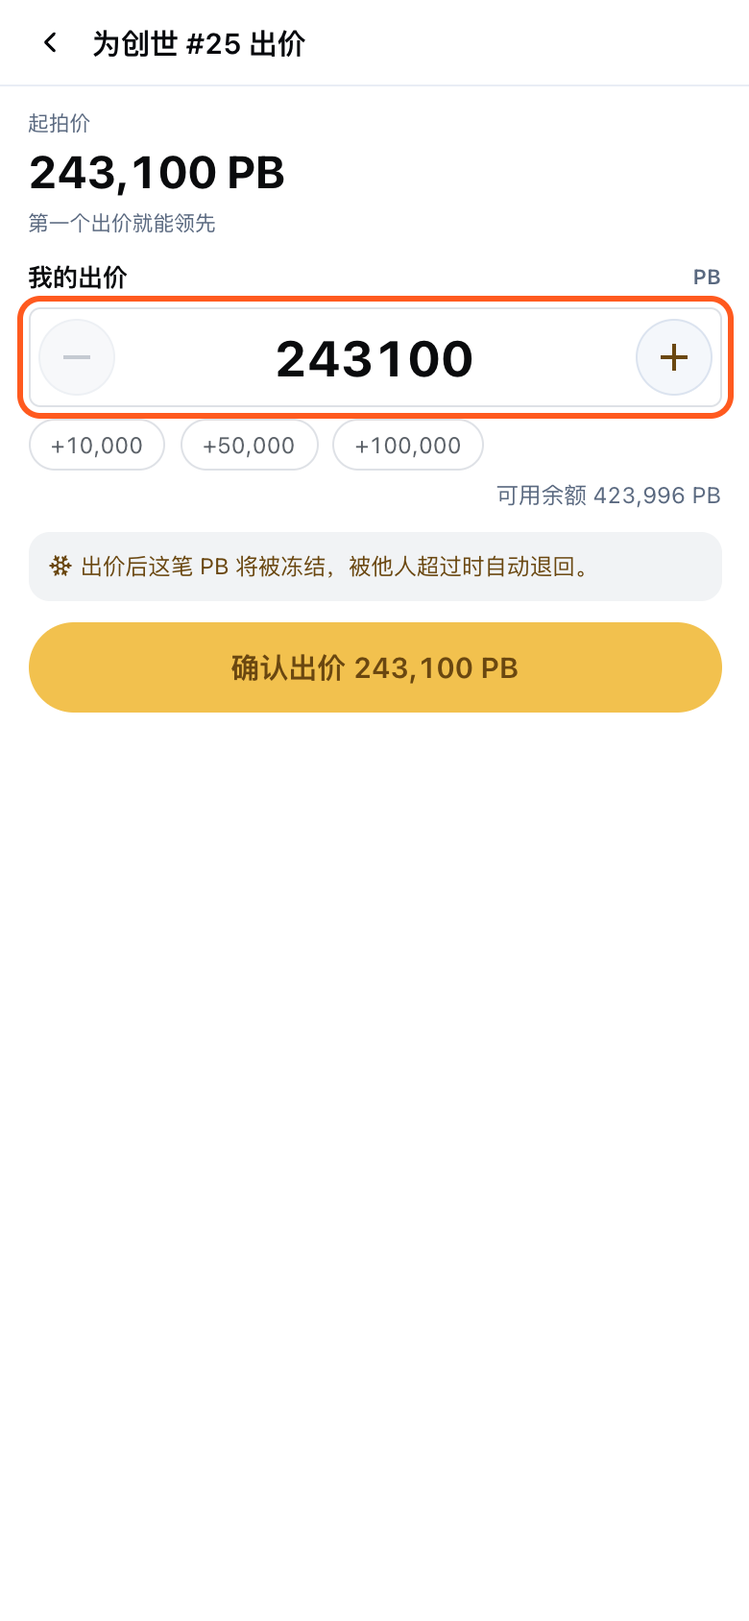
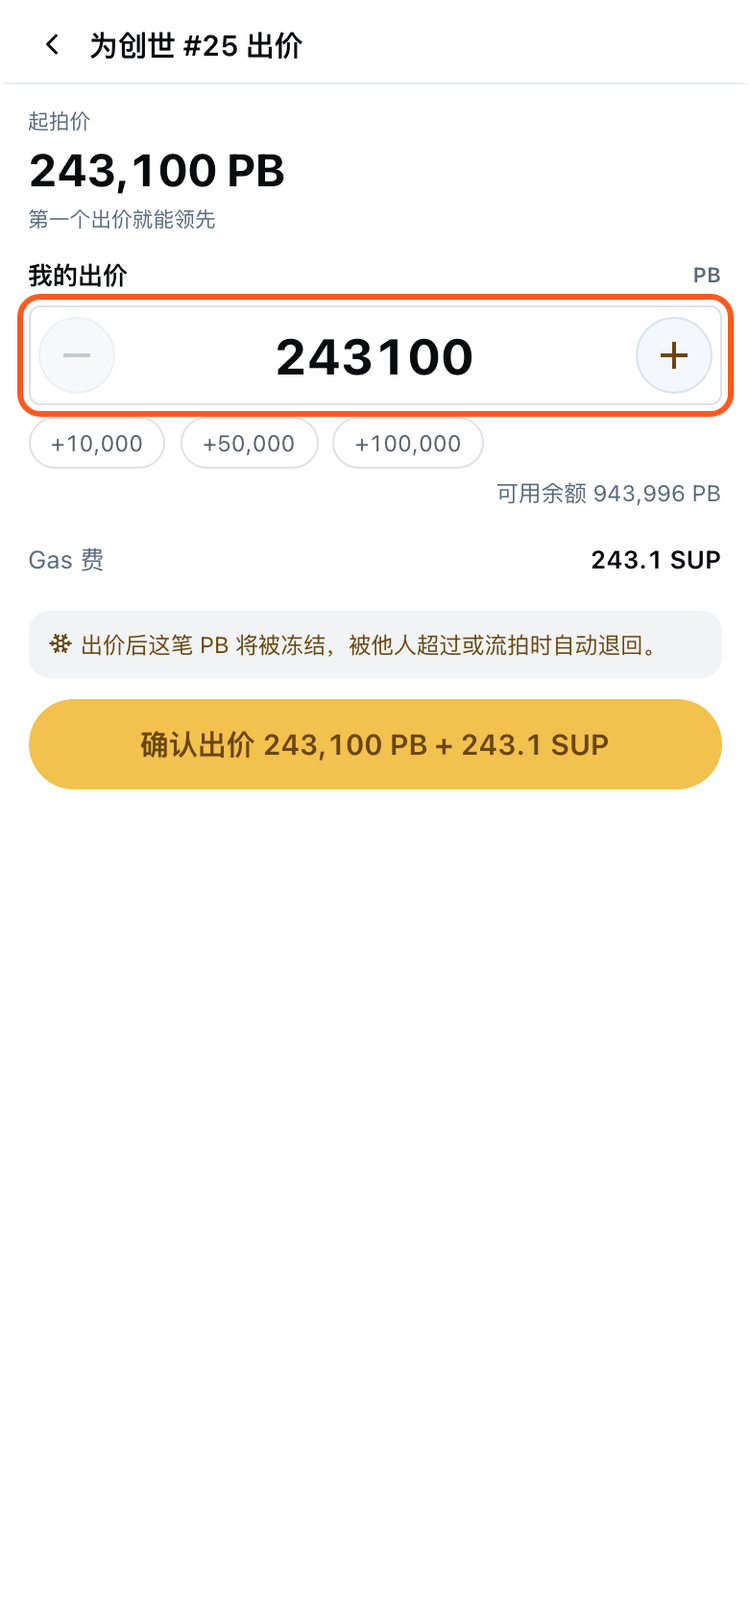
竞拍交付页同步到 MR !56：出价 Gas 费与出价确认弹窗
- 出价页说明补充 SUP Gas 费、SUP 不足提示与收费基数
- 新增出价确认弹窗一屏，出价成功截图改为经弹窗确认
- 模拟数据返回 supFeeRate，截图前把页面余额调到够用
- 去掉「开发环境只有即将开拍数据」的过时说明

diff --git a/output/handoff/genesis-node-auction/index.html b/output/handoff/genesis-node-auction/index.html
@@ -100,13 +100,13 @@
   <header class="top">
     <p class="eyebrow">知识宇宙 · 功能交付</p>
     <h1>创世节点竞拍</h1>
-    <p class="intro">每月排名末 50 名的创世节点在次月公开竞拍，出价最高者获得节点。本页只展示各页面和各阶段的样子；接口字段、状态取值和规则见接口契约。开发环境目前只有即将开拍的测试数据，为了展示各阶段，截图时模拟了接口返回，页面代码与联调时相同。</p>
-    <dl class="meta"><div><dt>代码位置</dt><dd>wujie_mono · apps/web3/genesis_node</dd></div><div><dt>分支</dt><dd>feat/genesis-node-auction（MR !53，提交 660f31eb）</dd></div><div><dt>日期</dt><dd>2026-09-25</dd></div><div><dt>接口契约</dt><dd>https://claude.ai/artifact/Cs6dsAJY8HjmTL6hZoLeuq（字段、状态、竞拍时间、结算与刷新规则以此为准）</dd></div><div><dt>涉及页面</dt><dd>知识宇宙页 · 竞拍列表 · 竞拍详情 · 出价页 · 规则弹窗</dd></div></dl>
+    <p class="intro">每月排名末 50 名的创世节点在次月公开竞拍，出价最高者获得节点。本页只展示各页面和各阶段的样子；接口字段、状态取值和规则见接口契约。为了展示各阶段，截图时模拟了接口返回，页面代码与联调时相同。</p>
+    <dl class="meta"><div><dt>代码位置</dt><dd>wujie_mono · apps/web3/genesis_node</dd></div><div><dt>分支</dt><dd>fix/genesis-auction-web-header（MR !56，提交 4bdfab7d；竞拍主体已随 MR !53 合入 develop）</dd></div><div><dt>日期</dt><dd>2026-09-28</dd></div><div><dt>接口契约</dt><dd>https://claude.ai/artifact/Cs6dsAJY8HjmTL6hZoLeuq（字段、状态、竞拍时间、结算与刷新规则以此为准）</dd></div><div><dt>涉及页面</dt><dd>知识宇宙页 · 竞拍列表 · 竞拍详情 · 出价页 · 出价确认弹窗 · 规则弹窗</dd></div></dl>
   </header>
 
   <nav class="overview" aria-label="屏幕目录">
     <h2>逐屏说明</h2>
-    <ol class="toc"><li><a href="#entry">知识宇宙页的竞拍入口</a></li><li><a href="#list">竞拍列表</a></li><li><a href="#bid-sheet">出价页</a></li><li><a href="#bid-done">出价成功后的列表</a></li><li><a href="#detail">竞拍详情</a></li><li><a href="#previous-list">上期结果列表</a></li><li><a href="#settled">上期结果详情</a></li><li><a href="#settling">期次刚结束：结果统计中</a></li><li><a href="#rules">竞拍规则说明</a></li><li><a href="#load-failed">加载失败</a></li><li><a href="#none">还没有任何一期：入口卡隐藏</a></li><li><a href="#first-upcoming-entry">第一期开拍前：入口卡</a></li><li><a href="#first-upcoming-list">第一期开拍前：竞拍列表</a></li><li><a href="#between-entry">两期之间：入口卡</a></li><li><a href="#between-list">两期之间：竞拍列表</a></li><li><a href="#next-upcoming-list">下期名单已公布、尚未开拍：竞拍列表</a></li></ol>
+    <ol class="toc"><li><a href="#entry">知识宇宙页的竞拍入口</a></li><li><a href="#list">竞拍列表</a></li><li><a href="#bid-sheet">出价页</a></li><li><a href="#bid-confirm">出价确认弹窗</a></li><li><a href="#bid-done">出价成功后的列表</a></li><li><a href="#detail">竞拍详情</a></li><li><a href="#previous-list">上期结果列表</a></li><li><a href="#settled">上期结果详情</a></li><li><a href="#settling">期次刚结束：结果统计中</a></li><li><a href="#rules">竞拍规则说明</a></li><li><a href="#load-failed">加载失败</a></li><li><a href="#none">还没有任何一期：入口卡隐藏</a></li><li><a href="#first-upcoming-entry">第一期开拍前：入口卡</a></li><li><a href="#first-upcoming-list">第一期开拍前：竞拍列表</a></li><li><a href="#between-entry">两期之间：入口卡</a></li><li><a href="#between-list">两期之间：竞拍列表</a></li><li><a href="#next-upcoming-list">下期名单已公布、尚未开拍：竞拍列表</a></li></ol>
   </nav>
 
   <section class="screens">
@@ -126,7 +126,7 @@
         <p class="screen-index">屏 2</p>
         <h3>竞拍列表<span class="tag tag--new">新增</span></h3>
         <ol class="path" aria-label="入口路径"><li>知识宇宙页</li><li>创世节点竞拍</li></ol>
-        <ul class="changes"><li>顶部深金头图里是本期状态（竞拍中或开拍时间）和倒计时，右侧是「竞拍规则」入口；两个分段下都显示</li><li>下面分「本期竞拍（N）」和「上期结果」两段</li><li>自己参与的场次置顶，分「我参与的（N）」和「其他场次（N）」</li><li>我参与的里被超过的排最前；其他场次按上月排名，一期内顺序固定，价格刷新时卡片不跳</li><li>本期其他场次标题右侧有「还没有人出价」筛选（竞拍中且已有场次被出价时才出现）和「价格从低到高」排序，场次数随筛选变化</li><li>每行三行：席位号与状态徽章（竞拍中且我没出价时不显示徽章）、上月名次与空投、当前价或起拍价与按钮</li><li>行右侧按钮按我的状态变化：出价（我没参与）、立即加价（已被超过）为实心金色，继续加价（我领先）为白底描边；点整行进详情</li><li>我领先的行是浅蓝底，已被超过的行是浅红底；当前价上涨时价格闪一下并显示涨了多少</li><li>停留在页面时自动刷新，切回前台时也刷新</li></ul>
+        <ul class="changes"><li>顶部深金头图里是本期状态（竞拍中或开拍时间）和倒计时，右侧是「竞拍规则」入口；两个分段下都显示</li><li>下面分「本期竞拍（N）」和「上期结果」两段</li><li>自己参与的场次置顶，分「我参与的（N）」和「其他场次（N）」</li><li>我参与的里被超过的排最前；其他场次按上月排名，一期内顺序固定，价格刷新时卡片不跳</li><li>本期其他场次标题右侧有「还没有人出价」筛选（竞拍中且已有场次被出价时才出现）和「价格从低到高」排序，场次数随筛选变化</li><li>每行三行：席位号与状态徽章（竞拍中且我没出价时不显示徽章）、上月名次与空投、当前价或起拍价与按钮</li><li>行右侧按钮按我的状态变化：出价（我没参与）、立即加价（已被超过）为实心金色，继续加价（我领先）为白底描边；点整行进详情</li><li>所有卡片统一白底、普通边框，靠徽章和按钮区分状态；当前价上涨时价格闪一下并显示涨了多少</li><li>停留在页面时自动刷新，切回前台时也刷新</li></ul>
         
       </div>
     </article>
@@ -136,16 +136,26 @@
         <p class="screen-index">屏 3</p>
         <h3>出价页<span class="tag tag--new">新增</span></h3>
         <ol class="path" aria-label="入口路径"><li>竞拍列表</li><li>某一场的出价按钮</li></ol>
-        <ul class="changes"><li>独立页面，从列表或详情的出价按钮进入；确认出价按钮紧跟在表单下方，出价成功后返回上一页</li><li>出价、立即加价与确认出价为实心金色；我领先时的继续加价为白底棕色描边</li><li>标题是「为创世 #N 出价」，上方显示当前价或起拍价，以及已出价次数与下次出价至少多少</li><li>出价须为起拍价 + 1 万的整数倍，不在档位上时提示最近可出金额并禁用确认；另有 +10,000 / +50,000 / +100,000 三个快捷加价</li><li>只用站内 PB 出价，快捷加价下方显示可用余额；余额不足时提示还差多少并禁用按钮</li><li>低于最低出价时出红字提示；别人抢先加价后只提示新的最低价，已输入的金额不变</li><li>自己已领先时顶部提示：上一笔先退回再冻结新出价；余额是否够按「余额 + 上一笔」计算</li></ul>
+        <ul class="changes"><li>独立页面，从列表或详情的出价按钮进入；确认出价按钮紧跟在表单下方，出价成功后返回上一页</li><li>出价、立即加价与确认出价为实心金色；我领先时的继续加价为白底棕色描边</li><li>标题是「为创世 #N 出价」，上方显示当前价或起拍价，以及已出价次数与下次出价至少多少</li><li>出价须为起拍价 + 1 万的整数倍，不在档位上时提示最近可出金额并禁用确认；另有 +10,000 / +50,000 / +100,000 三个快捷加价</li><li>只用站内 PB 出价，快捷加价下方显示可用余额；余额不足时提示还差多少并禁用按钮</li><li>每次出价另收 SUP 作为 Gas 费，金额显示在余额下方，确认按钮同时写出 PB 和 SUP；自己领先时继续加价只按加价部分收，其余按出价全额收</li><li>SUP 不足时提示还差多少并禁用按钮；接口没返回费率时不显示 Gas 费</li><li>低于最低出价时出红字提示；别人抢先加价后只提示新的最低价，已输入的金额不变</li><li>自己已领先时顶部提示：上一笔先退回再冻结新出价；余额是否够按「余额 + 上一笔」计算</li><li>冻结说明：出价的 PB 被他人超过或流拍时自动退回</li></ul>
+        
+      </div>
+    </article>
+    <article class="screen" id="bid-confirm">
+      <figure class="phone"><img src="shots/bid-confirm.png" alt="出价确认弹窗 截图" loading="lazy" width="390" height="844"></figure>
+      <div class="screen-body">
+        <p class="screen-index">屏 4</p>
+        <h3>出价确认弹窗<span class="tag tag--new">新增</span></h3>
+        <ol class="path" aria-label="入口路径"><li>出价页</li><li>确认出价</li></ol>
+        <ul class="changes"><li>点确认出价后先弹窗核对，确认后才提交，避免误点直接扣费</li><li>弹窗分两组：出价 N PB（被超过或流拍时退回）、Gas 费 N SUP</li><li>弹窗打开期间切换了账户或 Gas 费变化时，点确认会提示并不提交，需重新确认</li></ul>
         
       </div>
     </article>
     <article class="screen" id="bid-done">
       <figure class="phone"><img src="shots/bid-done.png" alt="出价成功后的列表 截图" loading="lazy" width="390" height="844"></figure>
       <div class="screen-body">
-        <p class="screen-index">屏 4</p>
+        <p class="screen-index">屏 5</p>
         <h3>出价成功后的列表<span class="tag tag--new">新增</span></h3>
-        <ol class="path" aria-label="入口路径"><li>出价页</li><li>确认出价</li></ol>
+        <ol class="path" aria-label="入口路径"><li>出价确认弹窗</li><li>确认出价</li></ol>
         <ul class="changes"><li>出价成功后弹出提示，说明冻结金额；覆盖自己上一笔出价时一并说明上一笔已退回（提示已消失，截图中未显示）</li><li>刚出价的那一行移到「我参与的」，转成「我领先」，按钮变为「继续加价」</li></ul>
         
       </div>
@@ -153,7 +163,7 @@
     <article class="screen" id="detail">
       <figure class="phone"><img src="shots/detail.png" alt="竞拍详情 截图" loading="lazy" width="390" height="844"></figure>
       <div class="screen-body">
-        <p class="screen-index">屏 5</p>
+        <p class="screen-index">屏 6</p>
         <h3>竞拍详情<span class="tag tag--new">新增</span></h3>
         <ol class="path" aria-label="入口路径"><li>竞拍列表</li><li>点击整行</li></ol>
         <ul class="changes"><li>顶部是当前价与倒计时，下面是上月名次、上月空投额度</li><li>有人出价后单独列出起拍价</li><li>出价记录里自己的那行高亮并标「我」，已被超过的追加「已退回」</li><li>底部固定金色按钮：出价 / 立即加价（已被超过）/ 继续加价（我领先）/ 尚未开拍；期次结束后隐藏；没人出价且不在竞拍中时不显示出价记录</li></ul>
@@ -163,7 +173,7 @@
     <article class="screen" id="previous-list">
       <figure class="phone"><img src="shots/previous-list.png" alt="上期结果列表 截图" loading="lazy" width="390" height="844"></figure>
       <div class="screen-body">
-        <p class="screen-index">屏 6</p>
+        <p class="screen-index">屏 7</p>
         <h3>上期结果列表<span class="tag tag--new">新增</span></h3>
         <ol class="path" aria-label="入口路径"><li>竞拍列表</li><li>上期结果</li></ol>
         <ul class="changes"><li>同样分「我参与的（N）」和「其他场次」</li><li>自己参与过的场次标「我已拍得」或「未拍得」，其余场次标「已成交」或「无人出价」</li><li>每行显示名次与空投额度、成交价；无人出价的显示起拍价</li><li>行右侧统一是「查看结果」，点击进入该场详情</li></ul>
@@ -173,7 +183,7 @@
     <article class="screen" id="settled">
       <figure class="phone"><img src="shots/settled.png" alt="上期结果详情 截图" loading="lazy" width="390" height="844"></figure>
       <div class="screen-body">
-        <p class="screen-index">屏 7</p>
+        <p class="screen-index">屏 8</p>
         <h3>上期结果详情<span class="tag tag--new">新增</span></h3>
         <ol class="path" aria-label="入口路径"><li>竞拍列表</li><li>上期结果</li><li>某一场</li></ol>
         <ul class="changes"><li>结算信息列出成交价与拍得人，拍得人是自己时显示「我」</li><li>无人出价的场次显示「本场无人出价」</li></ul>
@@ -183,7 +193,7 @@
     <article class="screen" id="settling">
       <figure class="phone"><img src="shots/settling.png" alt="期次刚结束：结果统计中 截图" loading="lazy" width="390" height="844"></figure>
       <div class="screen-body">
-        <p class="screen-index">屏 8</p>
+        <p class="screen-index">屏 9</p>
         <h3>期次刚结束：结果统计中<span class="tag tag--new">新增</span></h3>
         <ol class="path" aria-label="入口路径"><li>竞拍列表</li><li>点击整行</li></ol>
         <ul class="changes"><li>期次结束后不能再出价，底部出价按钮隐藏</li><li>接口返回结算结果之前，列表徽章和详情页显示「结果统计中」，详情页提示「成交结果统计中，几分钟后更新」</li><li>结算完成后自动显示成交价与拍得人</li></ul>
@@ -193,7 +203,7 @@
     <article class="screen" id="rules">
       <figure class="phone"><img src="shots/rules.png" alt="竞拍规则说明 截图" loading="lazy" width="390" height="844"></figure>
       <div class="screen-body">
-        <p class="screen-index">屏 9</p>
+        <p class="screen-index">屏 10</p>
         <h3>竞拍规则说明<span class="tag tag--new">新增</span></h3>
         <ol class="path" aria-label="入口路径"><li>竞拍列表</li><li>规则</li></ol>
         <ul class="changes"><li>四条规则：末 50 名进入竞拍、起拍价构成与最低加价、冻结与退回到站内 PB 余额、节点被竞拍时你获得的金额</li></ul>
@@ -203,7 +213,7 @@
     <article class="screen" id="load-failed">
       <figure class="phone"><img src="shots/load-failed.png" alt="加载失败 截图" loading="lazy" width="390" height="844"></figure>
       <div class="screen-body">
-        <p class="screen-index">屏 10</p>
+        <p class="screen-index">屏 11</p>
         <h3>加载失败<span class="tag tag--new">新增</span></h3>
         <ol class="path" aria-label="入口路径"><li>知识宇宙页</li><li>创世节点竞拍</li></ol>
         <ul class="changes"><li>一次都没拉到数据时显示「竞拍信息没有加载出来」和「重试」</li><li>已经有数据时拉取失败不打断页面，继续显示上次的数据并自动重试</li></ul>
@@ -213,7 +223,7 @@
     <article class="screen" id="none">
       <figure class="phone"><img src="shots/none.png" alt="还没有任何一期：入口卡隐藏 截图" loading="lazy" width="390" height="844"></figure>
       <div class="screen-body">
-        <p class="screen-index">屏 11</p>
+        <p class="screen-index">屏 12</p>
         <h3>还没有任何一期：入口卡隐藏<span class="tag tag--new">新增</span></h3>
         <ol class="path" aria-label="入口路径"><li>知识宇宙页</li></ol>
         <ul class="changes"><li>第一期名单公布之前，知识宇宙页不显示竞拍入口卡</li></ul>
@@ -223,7 +233,7 @@
     <article class="screen" id="first-upcoming-entry">
       <figure class="phone"><img src="shots/first-upcoming-entry.png" alt="第一期开拍前：入口卡 截图" loading="lazy" width="390" height="844"></figure>
       <div class="screen-body">
-        <p class="screen-index">屏 12</p>
+        <p class="screen-index">屏 13</p>
         <h3>第一期开拍前：入口卡<span class="tag tag--new">新增</span></h3>
         <ol class="path" aria-label="入口路径"><li>知识宇宙页</li><li>资产卡下方</li></ol>
         <ul class="changes"><li>名单公布后、开拍前，入口卡显示「本期 N 个创世节点即将开拍」</li><li>倒计时改为距开拍</li></ul>
@@ -233,7 +243,7 @@
     <article class="screen" id="first-upcoming-list">
       <figure class="phone"><img src="shots/first-upcoming-list.png" alt="第一期开拍前：竞拍列表 截图" loading="lazy" width="390" height="844"></figure>
       <div class="screen-body">
-        <p class="screen-index">屏 13</p>
+        <p class="screen-index">屏 14</p>
         <h3>第一期开拍前：竞拍列表<span class="tag tag--new">新增</span></h3>
         <ol class="path" aria-label="入口路径"><li>知识宇宙页</li><li>创世节点竞拍</li></ol>
         <ul class="changes"><li>没有上一期，所以不显示分段，只列出本期节点</li><li>顶部状态条显示「本期 N 个创世节点」和开拍时间：超过一天显示具体开拍日期时间，一天内显示倒计时</li><li>每场显示起拍价，徽章为「即将开拍」，按钮为「查看详情」；详情页底部按钮为不可点的「尚未开拍」</li></ul>
@@ -243,7 +253,7 @@
     <article class="screen" id="between-entry">
       <figure class="phone"><img src="shots/between-entry.png" alt="两期之间：入口卡 截图" loading="lazy" width="390" height="844"></figure>
       <div class="screen-body">
-        <p class="screen-index">屏 14</p>
+        <p class="screen-index">屏 15</p>
         <h3>两期之间：入口卡<span class="tag tag--new">新增</span></h3>
         <ol class="path" aria-label="入口路径"><li>知识宇宙页</li><li>资产卡下方</li></ol>
         <ul class="changes"><li>一期结束后、下期名单公布前，入口卡保留，文案为「上期竞拍已结束，可查看成交结果」</li><li>拍得节点的人追加一行「你拍得了 N 个创世节点」</li><li>这段时间没有倒计时</li></ul>
@@ -253,7 +263,7 @@
     <article class="screen" id="between-list">
       <figure class="phone"><img src="shots/between-list.png" alt="两期之间：竞拍列表 截图" loading="lazy" width="390" height="844"></figure>
       <div class="screen-body">
-        <p class="screen-index">屏 15</p>
+        <p class="screen-index">屏 16</p>
         <h3>两期之间：竞拍列表<span class="tag tag--new">新增</span></h3>
         <ol class="path" aria-label="入口路径"><li>知识宇宙页</li><li>创世节点竞拍</li></ol>
         <ul class="changes"><li>没有本期，所以不显示分段，直接展示上期结果</li><li>自己参与过的场次置顶，徽章为「我已拍得」或「未拍得」</li></ul>
@@ -263,7 +273,7 @@
     <article class="screen" id="next-upcoming-list">
       <figure class="phone"><img src="shots/next-upcoming-list.png" alt="下期名单已公布、尚未开拍：竞拍列表 截图" loading="lazy" width="390" height="844"></figure>
       <div class="screen-body">
-        <p class="screen-index">屏 16</p>
+        <p class="screen-index">屏 17</p>
         <h3>下期名单已公布、尚未开拍：竞拍列表<span class="tag tag--new">新增</span></h3>
         <ol class="path" aria-label="入口路径"><li>知识宇宙页</li><li>创世节点竞拍</li></ol>
         <ul class="changes"><li>下期名单公布后，入口卡同第一期开拍前，显示即将开拍和距开拍倒计时</li><li>列表恢复分段：第一段为「即将开拍（N）」，第二段为「上期结果」</li></ul>

diff --git a/tools/handoff/specs/genesis-node-auction.mock.js b/tools/handoff/specs/genesis-node-auction.mock.js
@@ -10,7 +10,7 @@
   const lot = (infoId, configId, seat, code, rank, airdrop, times, price, status, addr) => ({
     infoId, configId, fromInfo: '创世节点#' + seat, thirdCode: code,
     note: `上月第${rank}名,上月空投${airdrop}PB`, addr: addr || '',
-    beginPrice: 200000 + airdrop, addPrice: 10000, localPrice: price, times, status, statusInfo: '',
+    beginPrice: 200000 + airdrop, addPrice: 10000, supFeeRate: 0.001, localPrice: price, times, status, statusInfo: '',
   });
 
   const upcoming = phase === 'first-upcoming' || phase === 'next-upcoming';

diff --git a/tools/handoff/specs/build_genesis_node_auction.py b/tools/handoff/specs/build_genesis_node_auction.py
@@ -9,6 +9,7 @@ HERE = Path(__file__).resolve().parent
 
 USER_STORE = json.dumps({'userInfo': {'purseDtos': [
     {'id': 183, 'pursename': 'PB', 'balance': 943996, 'freeze': 0, 'usableBalance': 943996, 'pursetype': 101},
+    {'id': 184, 'pursename': 'SUP', 'balance': 5000, 'freeze': 0, 'usableBalance': 5000, 'pursetype': 102},
 ]}}, ensure_ascii=False)
 INIT = (
     'try { if (!localStorage.getItem("web3_genesis_node_user_local_store")) '
@@ -38,6 +39,10 @@ def start(phase, enter=True):
     if enter:
         steps.append({'click': ENTRY, 'wait': 1800})
     return steps
+
+
+# 开发环境会用真实账户余额覆盖本地钱包，出价相关截图前把页面上的 PB / SUP 余额调到够用
+FUND = {'eval': "(() => { const u = document.querySelector('#app').__vue_app__.config.globalProperties.$pinia._s.get('web3_genesis_node_user_local_store'); for (const p of u.userInfo.purseDtos) { if (p.id == 183) p.usableBalance = 943996; if (p.id == 184) p.usableBalance = 5000; } })()", 'wait': 300}
 
 
 def click_card(pattern, action=False):
@@ -83,15 +88,18 @@ screens = [
     },
     {
         'id': 'bid-sheet', 'title': '出价页', 'tag': 'new', 'path': ['竞拍列表', '某一场的出价按钮'],
-        'steps': start('live') + [click_card('创世 #25', action=True)], 'highlight': ['css:.stake-code-stepper'],
+        'steps': start('live') + [click_card('创世 #25', action=True), FUND], 'highlight': ['css:.stake-code-stepper'],
         'changes': [
             '独立页面，从列表或详情的出价按钮进入；确认出价按钮紧跟在表单下方，出价成功后返回上一页',
             '出价、立即加价与确认出价为实心金色；我领先时的继续加价为白底棕色描边',
             '标题是「为创世 #N 出价」，上方显示当前价或起拍价，以及已出价次数与下次出价至少多少',
             '出价须为起拍价 + 1 万的整数倍，不在档位上时提示最近可出金额并禁用确认；另有 +10,000 / +50,000 / +100,000 三个快捷加价',
             '只用站内 PB 出价，快捷加价下方显示可用余额；余额不足时提示还差多少并禁用按钮',
+            '每次出价另收 SUP 作为 Gas 费，金额显示在余额下方，确认按钮同时写出 PB 和 SUP；自己领先时继续加价只按加价部分收，其余按出价全额收',
+            'SUP 不足时提示还差多少并禁用按钮；接口没返回费率时不显示 Gas 费',
             '低于最低出价时出红字提示；别人抢先加价后只提示新的最低价，已输入的金额不变',
             '自己已领先时顶部提示：上一笔先退回再冻结新出价；余额是否够按「余额 + 上一笔」计算',
+            '冻结说明：出价的 PB 被他人超过或流拍时自动退回',
         ],
         'devNotes': [
             'BidZsAuction 传 infoId、amount；只扣站内 PB（purseDtos 中 id=183）',
@@ -99,8 +107,18 @@ screens = [
         ],
     },
     {
-        'id': 'bid-done', 'title': '出价成功后的列表', 'tag': 'new', 'path': ['出价页', '确认出价'],
-        'steps': start('live') + [click_card('创世 #25', action=True), {'click': 'text:确认出价', 'wait': 2500}],
+        'id': 'bid-confirm', 'title': '出价确认弹窗', 'tag': 'new', 'path': ['出价页', '确认出价'],
+        'steps': start('live') + [click_card('创世 #25', action=True), FUND, {'click': 'text:确认出价', 'wait': 900}],
+        'highlight': ['css:.van-dialog'],
+        'changes': [
+            '点确认出价后先弹窗核对，确认后才提交，避免误点直接扣费',
+            '弹窗分两组：出价 N PB（被超过或流拍时退回）、Gas 费 N SUP',
+            '弹窗打开期间切换了账户或 Gas 费变化时，点确认会提示并不提交，需重新确认',
+        ],
+    },
+    {
+        'id': 'bid-done', 'title': '出价成功后的列表', 'tag': 'new', 'path': ['出价确认弹窗', '确认出价'],
+        'steps': start('live') + [click_card('创世 #25', action=True), FUND, {'click': 'text:确认出价', 'wait': 900}, {'click': 'css:.van-dialog__confirm', 'wait': 2500}],
         'highlight': ['css:.gn-auction-card:has-text("创世 #25")'],
         'changes': [
             '出价成功后弹出提示，说明冻结金额；覆盖自己上一笔出价时一并说明上一笔已退回（提示已消失，截图中未显示）',
@@ -228,15 +246,14 @@ spec = {
     'footer': '截图由脚本从 wujie_mono 正式代码的本地开发环境自动生成，橙色描边标出本次改动的位置。接口数据为截图用的模拟数据。',
     'intro': (
         '每月排名末 50 名的创世节点在次月公开竞拍，出价最高者获得节点。本页只展示各页面和各阶段的样子；'
-        '接口字段、状态取值和规则见接口契约。开发环境目前只有即将开拍的测试数据，为了展示各阶段，'
-        '截图时模拟了接口返回，页面代码与联调时相同。'
+        '接口字段、状态取值和规则见接口契约。为了展示各阶段，截图时模拟了接口返回，页面代码与联调时相同。'
     ),
     'meta': {
         '代码位置': 'wujie_mono · apps/web3/genesis_node',
-        '分支': 'feat/genesis-node-auction（MR !53，提交 8f9f38e5）',
+        '分支': 'fix/genesis-auction-web-header（MR !56，提交 4bdfab7d；竞拍主体已随 MR !53 合入 develop）',
         '日期': '2026-09-28',
         '接口契约': 'https://claude.ai/artifact/Cs6dsAJY8HjmTL6hZoLeuq（字段、状态、竞拍时间、结算与刷新规则以此为准）',
-        '涉及页面': '知识宇宙页 · 竞拍列表 · 竞拍详情 · 出价页 · 规则弹窗',
+        '涉及页面': '知识宇宙页 · 竞拍列表 · 竞拍详情 · 出价页 · 出价确认弹窗 · 规则弹窗',
     },
     'startPath': '/web3_genesis_node/planet',
     'initScript': INIT,
